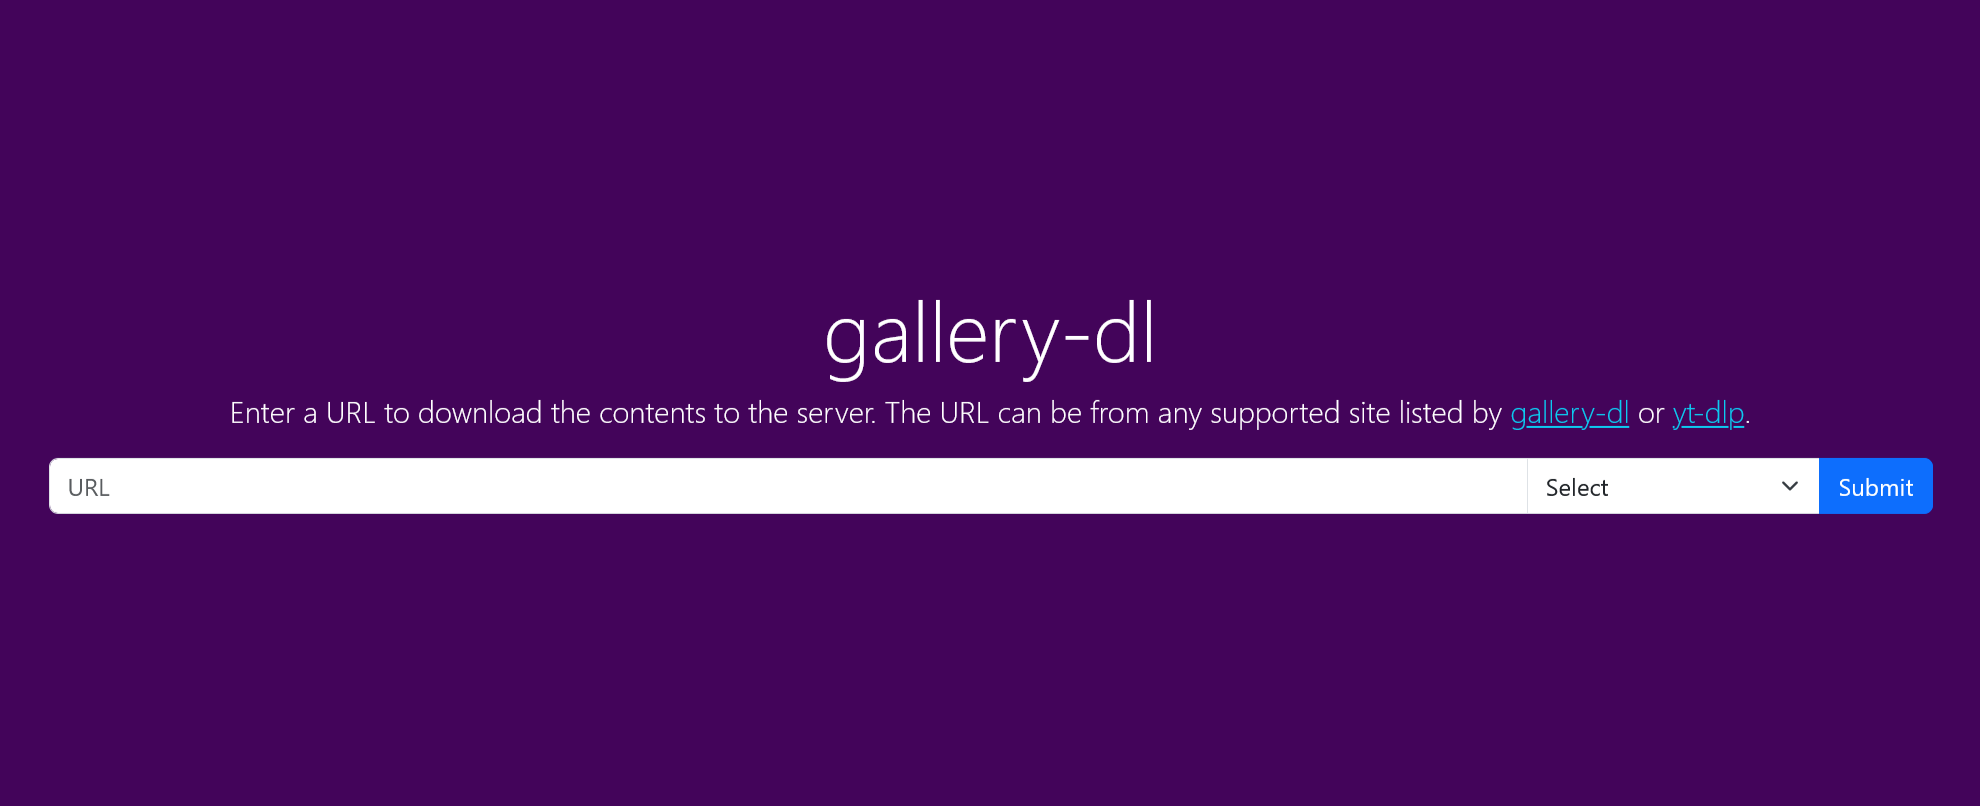
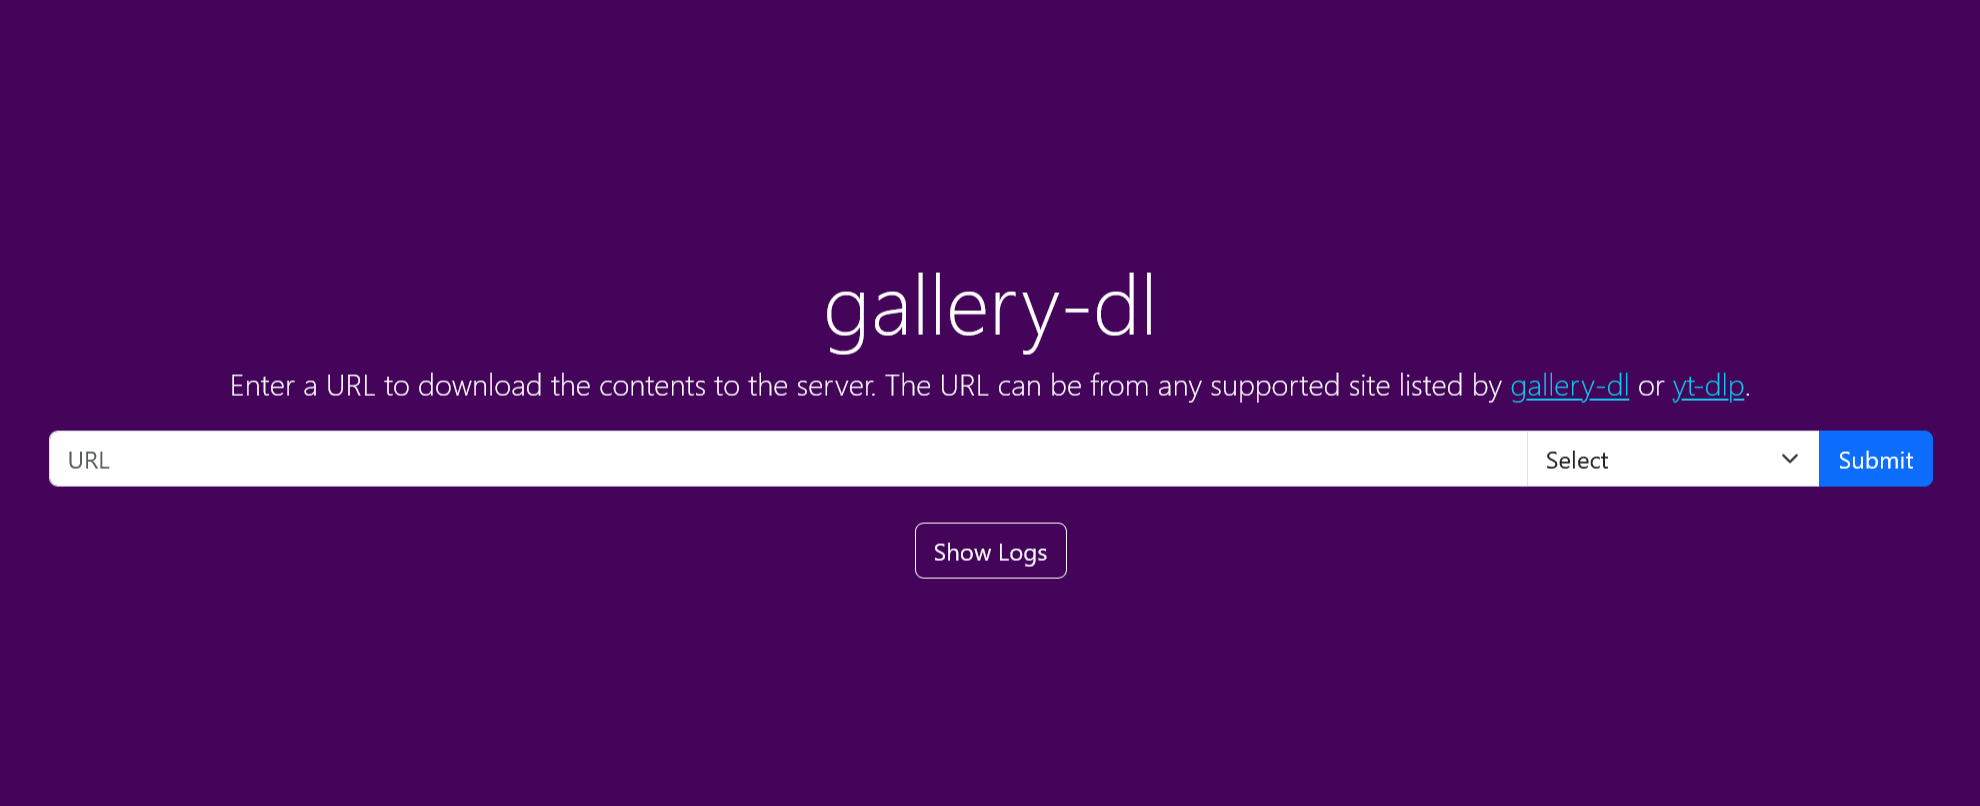
feat: view logs from web UI

Changed region(s): [[0.0, 0.3412, 0.9859, 0.6514], [0.4621, 0.6824, 0.5237, 0.7134]]

diff --git a/templates/index.html b/templates/index.html
@@ -32,13 +32,6 @@
       crossorigin="anonymous"
     />
 
-    <!-- <link
-      rel="stylesheet"
-      href="https://cdn.jsdelivr.net/npm/@sweetalert2/themes@5.0.16/dark/dark.min.css"
-      integrity="sha384-2+Epqnzu2PLK58QMjMin01tqgpiF1f1xYqbSioBCXAiAGv23Gn6FgEtMeJ3S3Z0s"
-      crossorigin="anonymous"
-    /> -->
-
     <link
       rel="apple-touch-icon"
       sizes="180x180"
@@ -77,6 +70,45 @@
 
       div.input-group > select.form-select {
         flex: 0.1 1 100px;
+      }
+
+      #btn-logs {
+        margin: 24px auto 12px auto;
+      }
+
+      #box {
+        margin: 12px auto 12px auto;
+	resize: vertical;
+	overflow-y: auto;
+        min-height: 95px;
+        height: 175px;
+	width: 85%;
+	border: 1px solid #333333;
+	border-radius: 10px;
+	background-color: #181a1b;
+	padding: 10px;
+        text-align: left;
+        color: #dedad6;
+        font-family: monospace;
+	font-size: 12px;
+        line-height: 16px;
+	scrollbar-color: #454a4d #202324;
+      }
+
+      textarea {
+        transition: border linear .2s, box-shadow linear .2s;
+        outline: none;
+      }
+
+      textarea:focus {
+        border: 1px solid rgba(11, 94, 215, 1);
+        box-shadow: 0 0 5px rgba(11, 94, 215, 1);
+      }
+
+      footer > p {
+        margin: 8px auto 24px auto;
+        font-size: 16px;
+        line-height: 24px;
       }
     </style>
 
@@ -129,11 +161,17 @@
             </button>
           </div>
         </form>
+
+        <div id="container-btn">
+          <button id="btn-logs" class="btn btn-outline-light" onclick="toggleLogs()">Show Logs</button>
+        </div>
+
+        <div id="container-logs">
+          <textarea id="box" name="Logs" placeholder="Logs output" readonly style="display: none"></textarea>
+        </div>
       </main>
 
       <footer class="mt-auto text-white-50">
-        <!-- <div id="liveAlertPlaceholder"></div> -->
-
         <p>
           Web frontend for
           <a class="text-white" href="https://github.com/mikf/gallery-dl">gallery-dl</a>
@@ -145,21 +183,8 @@
     </div>
 
     <script>
-      // var alertPlaceholder = document.getElementById('liveAlertPlaceholder');
-
       const urlParams = new URLSearchParams(window.location.search);
       const added = urlParams.get('added');
-
-      // function alert(message, type) {
-      //   var wrapper = document.createElement('div');
-      //   wrapper.innerHTML =
-      //     '<div class="alert alert-' +
-      //     type +
-      //     ' alert-dismissible" role="alert">' +
-      //     message +
-      //     '<button type="button" class="btn-close" data-bs-dismiss="alert" aria-label="Close"></button></div>';
-      //   alertPlaceholder.append(wrapper);
-      // }
 
       const Success = Swal.mixin({
         animation: true,
@@ -187,17 +212,75 @@
       });
 
       if (added) {
-        // alert(
-        //   'Successfully added <a href=' +
-        //     added +
-        //     '>one item</a> to the download queue.',
-        //   'success',
-        // );
-
         Success.fire({
           title: "Success!",
           html: "Added <a href=" + added + ">one item</a> to the download queue.",
         });
+      }
+
+      fetchLogs();
+
+      setInterval(fetchLogs, 1000);
+
+      async function fetchLogs() {
+        const box = document.getElementById("box");
+        const response = await fetch("gallery-dl/logs");
+        const logs = await response.text();
+
+        if (box.textContent != logs) {
+          box.textContent = logs;
+          box.scrollTop = box.scrollHeight;
+        }
+      }
+
+      if (localStorage.getItem("logs") == "shown") {
+        toggleLogs();
+      }
+
+      function toggleLogs() {
+        const box = document.getElementById("box");
+        const btn = document.getElementById("btn-logs");
+
+        if (btn.innerText == "Show Logs") {
+          btn.innerText = "Hide Logs";
+          box.style.display = "inline";
+          loadBox();
+          localStorage.setItem("logs","shown");
+        }
+        else {
+          saveBox();
+          btn.innerText = "Show Logs";
+          box.style.display = "none";
+          localStorage.setItem("logs","hidden");
+        }
+      }
+
+      function loadBox() {
+        const box = document.getElementById("box");
+
+        if ("boxHeight" in sessionStorage && sessionStorage.getItem("boxHeight") != "0") {
+          box.style.height = sessionStorage.getItem("boxHeight") + "px";
+        }
+        else {
+          box.scrollTop = box.scrollHeight;
+        }
+        if ("scrollPos" in sessionStorage && sessionStorage.getItem("scrollPos") != "0") {
+          box.scrollTop = sessionStorage.getItem("scrollPos");
+        }
+        else {
+          box.scrollTop = box.scrollHeight;
+        }
+      }
+
+      function saveBox() {
+        const box = document.getElementById("box");
+        let boxPos = box.getBoundingClientRect();
+        sessionStorage.setItem("boxHeight", boxPos.height);
+        sessionStorage.setItem("scrollPos", box.scrollTop);
+      }
+
+      window.onbeforeunload = function(event) {
+        saveBox();
       }
     </script>
   </body>

diff --git a/gallery-dl-server.py b/gallery-dl-server.py
@@ -1,15 +1,18 @@
+import os
 import sys
 import subprocess
+import logging
+import re
 
 from starlette.status import HTTP_303_SEE_OTHER
 from starlette.applications import Starlette
-from starlette.responses import JSONResponse, RedirectResponse
+from starlette.responses import JSONResponse, RedirectResponse, FileResponse
 from starlette.routing import Route, Mount
 from starlette.templating import Jinja2Templates
 from starlette.staticfiles import StaticFiles
 from starlette.background import BackgroundTask
 
-from gallery_dl import config, job, version as gdl_version
+from gallery_dl import config, version as gdl_version
 from yt_dlp import version as ydl_version
 
 templates = Jinja2Templates(directory="templates")
@@ -37,18 +40,20 @@ async def q_put(request):
     options = {"format": form.get("format")}
 
     if not url:
+        logger.error("No URL provided.")
         return JSONResponse(
             {"success": False, "error": "/q called without a 'url' in form data"}
         )
 
     task = BackgroundTask(download, url, options)
 
-    print("Added url " + url + " to the download queue")
+    logger.info("Added URL to the download queue: %s", url)
 
     if not ui:
         return JSONResponse(
             {"success": True, "url": url, "options": options}, background=task
         )
+
     return RedirectResponse(
         url="/gallery-dl?added=" + url, status_code=HTTP_303_SEE_OTHER, background=task
     )
@@ -56,8 +61,7 @@ async def q_put(request):
 
 async def update_route(scope, receive, send):
     task = BackgroundTask(update)
-
-    return JSONResponse({"output": "Initiated package update"}, background=task)
+    return JSONResponse({"output": "Initiated package update."}, background=task)
 
 
 def update():
@@ -65,18 +69,20 @@ def update():
         output = subprocess.check_output(
             [sys.executable, "-m", "pip", "install", "--upgrade", "gallery_dl"]
         )
-
-        print(output.decode("utf-8"))
+        logger.info(output.decode("utf-8"))
     except subprocess.CalledProcessError as e:
-        print(e.output)
+        logger.error(e.output.decode("utf-8"))
     try:
         output = subprocess.check_output(
             [sys.executable, "-m", "pip", "install", "--upgrade", "yt-dlp"]
         )
-
-        print(output.decode("utf-8"))
+        logger.info(output.decode("utf-8"))
     except subprocess.CalledProcessError as e:
-        print(e.output)
+        logger.error(e.output.decode("utf-8"))
+
+
+async def log_route(request):
+    return FileResponse(log_file)
 
 
 def config_remove(path, key=None, value=None):
@@ -102,7 +108,7 @@ def config_remove(path, key=None, value=None):
             try:
                 _list.remove(entry)
             except Exception as e:
-                print("Exception: " + str(e))
+                logger.error("Exception: %s", str(e))
             else:
                 removed_entries.append(entry)
 
@@ -122,7 +128,7 @@ def config_remove(path, key=None, value=None):
             try:
                 _dict.pop(entry)
             except Exception as e:
-                print("Exception: " + str(e))
+                logger.error("Exception: %s", str(e))
             else:
                 removed_entries.append(entry)
 
@@ -185,11 +191,45 @@ def config_update(request_options):
         )
 
 
+def remove_ansi_escape_sequences(text):
+    ansi_escape_pattern = re.compile(r"\x1B\[[0-?9;]*[mGKH]")
+    return ansi_escape_pattern.sub("", text)
+
+
 def download(url, request_options):
     config.clear()
     config.load()
     config_update(request_options)
-    job.DownloadJob(url).run()
+
+    cmd = ["gallery-dl", url]
+    process = subprocess.Popen(
+        cmd, stdout=subprocess.PIPE, stderr=subprocess.PIPE, text=True
+    )
+
+    while True:
+        output = process.stdout.readline()
+        if output == "" and process.poll() is not None:
+            break
+        if output:
+            formatted_output = output.strip()
+            formatted_output = remove_ansi_escape_sequences(formatted_output)
+            if formatted_output.startswith("#"):
+                logger.error("File already exists.")
+            else:
+                logger.info(formatted_output)
+
+    stderr_output = process.stderr.read()
+    if stderr_output:
+        stderr_output = remove_ansi_escape_sequences(stderr_output.strip())
+        logger.error(stderr_output)
+
+    exit_code = process.wait()
+    if exit_code == 0:
+        logger.info("Download task completed.")
+    else:
+        logger.error(f"Download failed with exit code: {exit_code}")
+
+    return exit_code
 
 
 routes = [
@@ -197,10 +237,36 @@ routes = [
     Route("/gallery-dl", endpoint=dl_queue_list),
     Route("/gallery-dl/q", endpoint=q_put, methods=["POST"]),
     Route("/gallery-dl/update", endpoint=update_route, methods=["PUT"]),
+    Route("/gallery-dl/logs", endpoint=log_route),
     Mount("/icons", StaticFiles(directory="icons"), name="icons"),
 ]
 
 app = Starlette(debug=True, routes=routes)
+
+log_file = os.path.join(os.path.dirname(__file__), "logs", "app.log")
+os.makedirs(os.path.dirname(log_file), exist_ok=True)
+
+logger_root = logging.getLogger()
+logger_root.setLevel(logging.INFO)
+
+formatter = logging.Formatter(
+    "%(asctime)s [%(levelname)s] %(message)s", datefmt="%d/%m/%Y %H:%M"
+)
+
+handler_console = logging.StreamHandler(sys.stderr)
+handler_console.setLevel(logging.INFO)
+handler_console.setFormatter(formatter)
+
+handler_file = logging.FileHandler(log_file)
+handler_file.setLevel(logging.INFO)
+handler_file.setFormatter(formatter)
+
+logger_root.addHandler(handler_console)
+logger_root.addHandler(handler_file)
+
+logger = logging.getLogger(__name__)
+logger.setLevel(logging.INFO)
+logger.propagate = True
 
 # print("\nUpdating gallery-dl and yt-dlp to the latest version . . . \n")
 # update()
